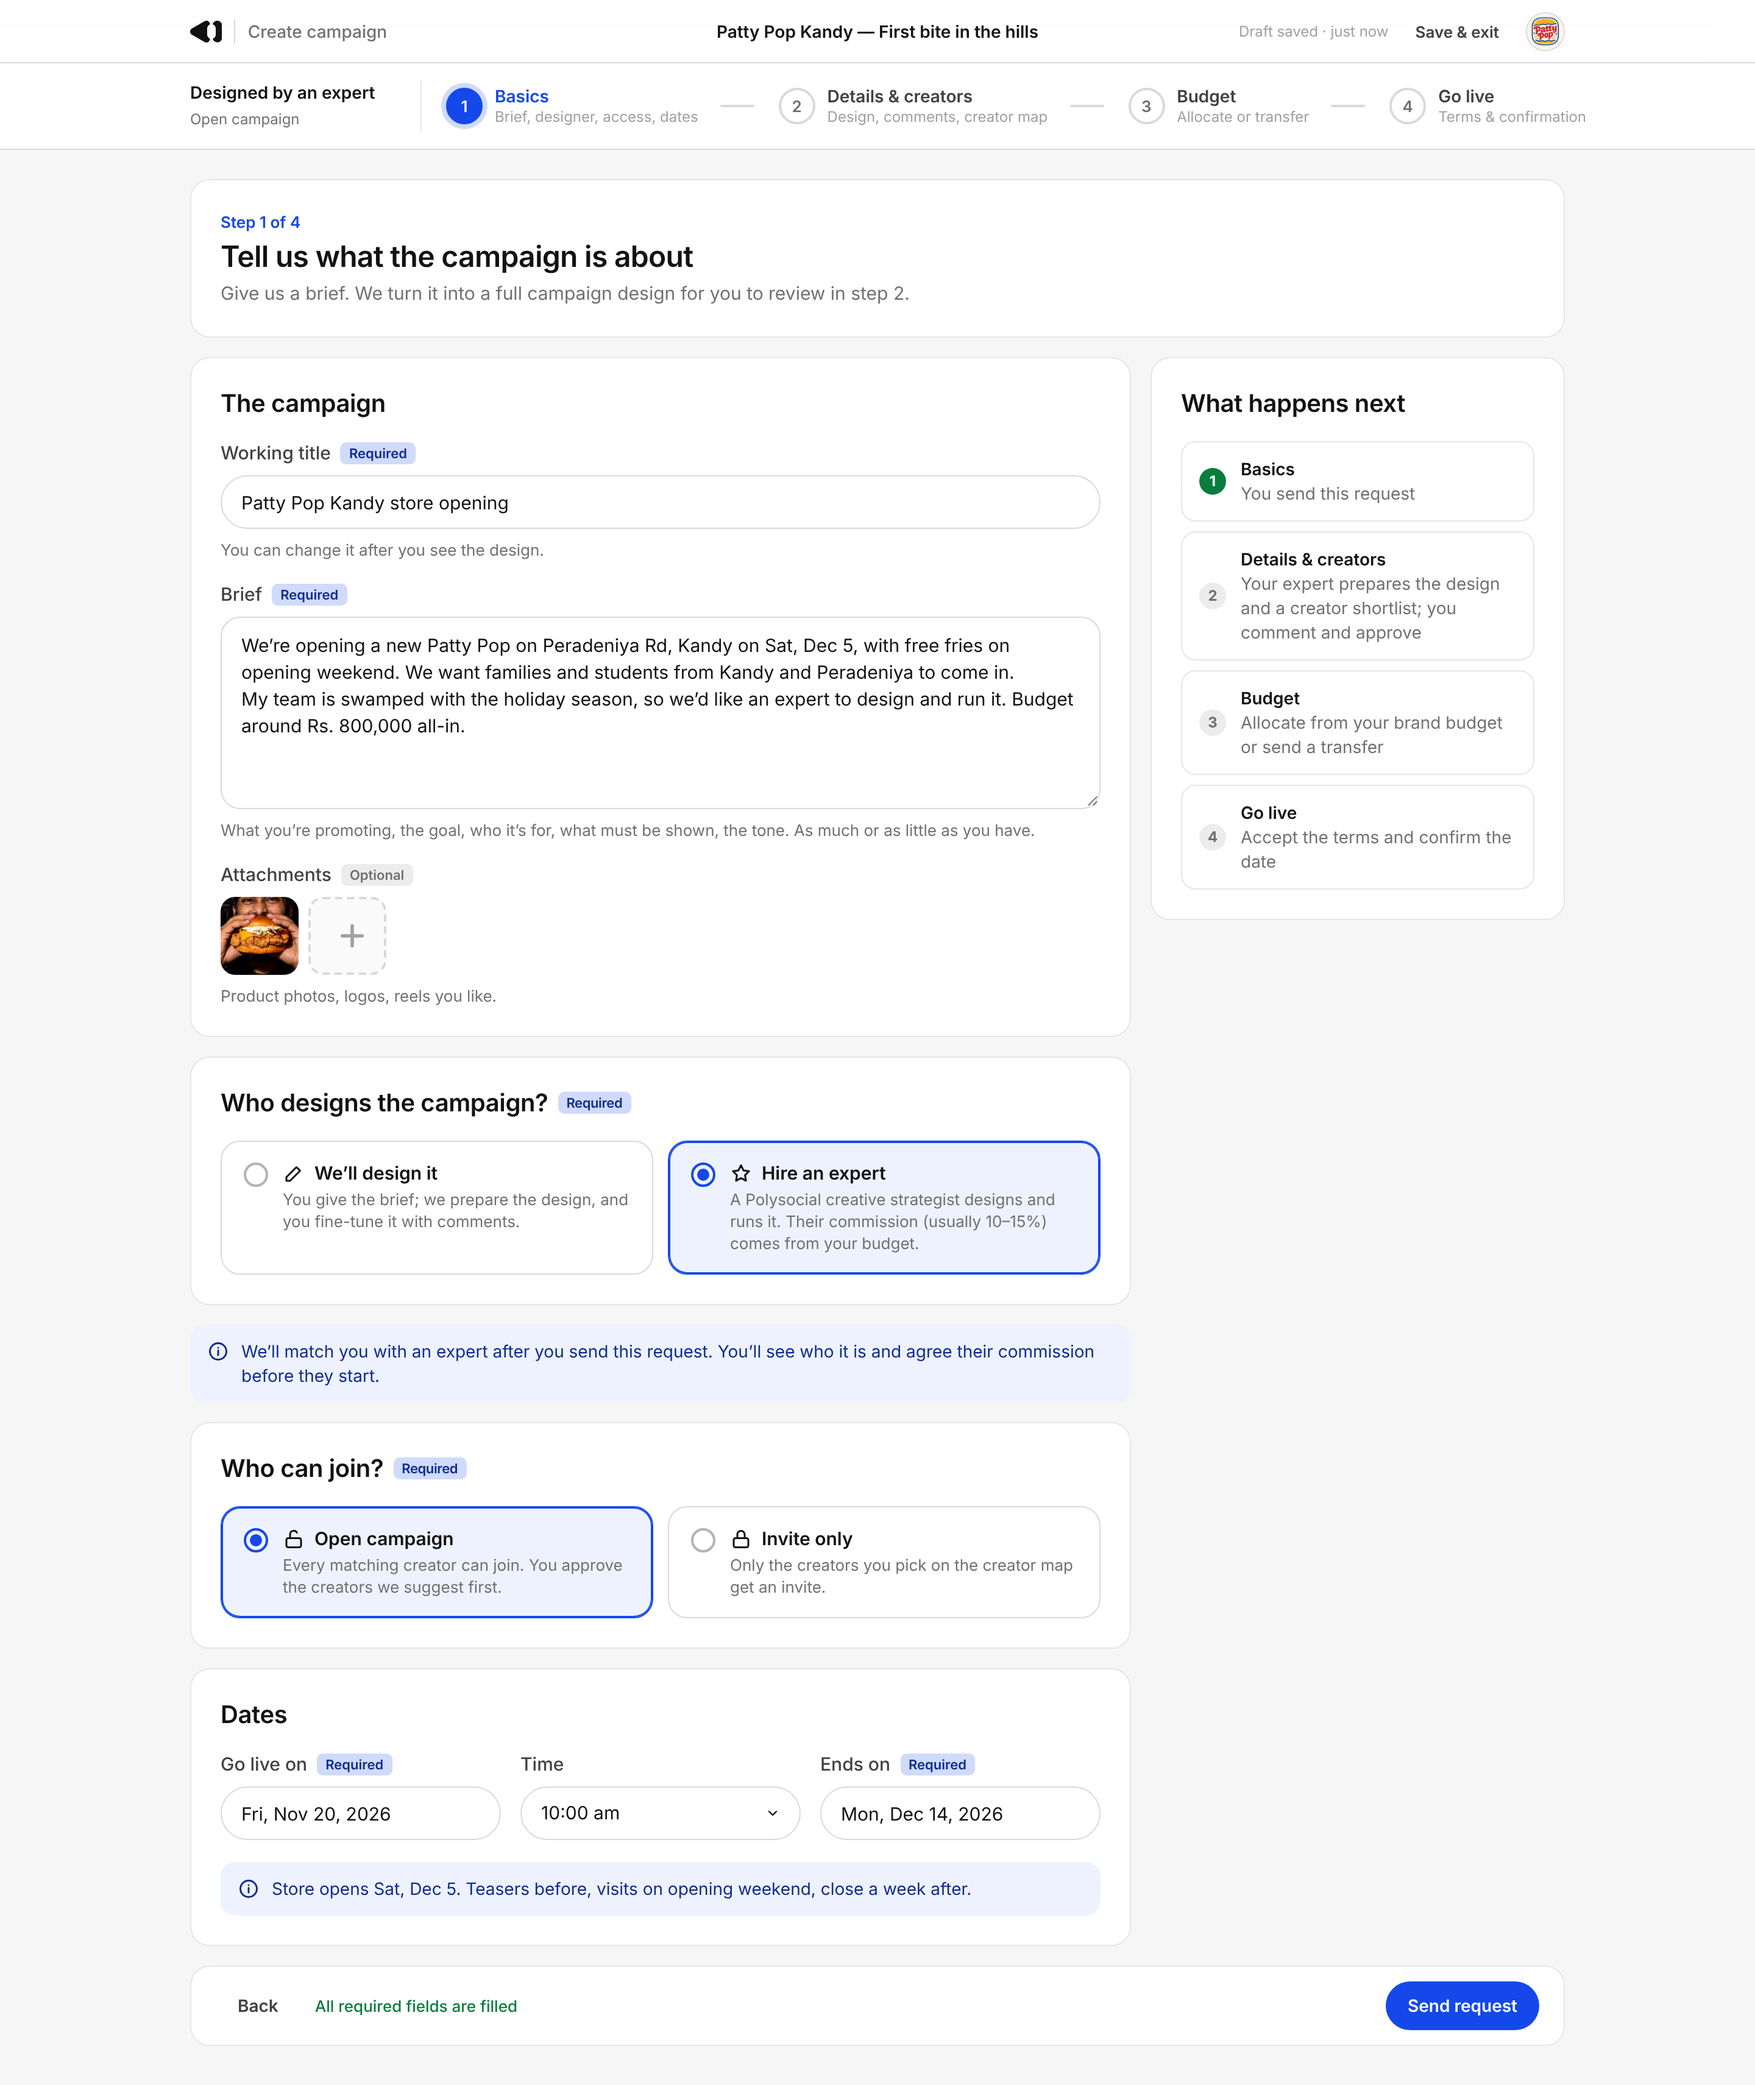
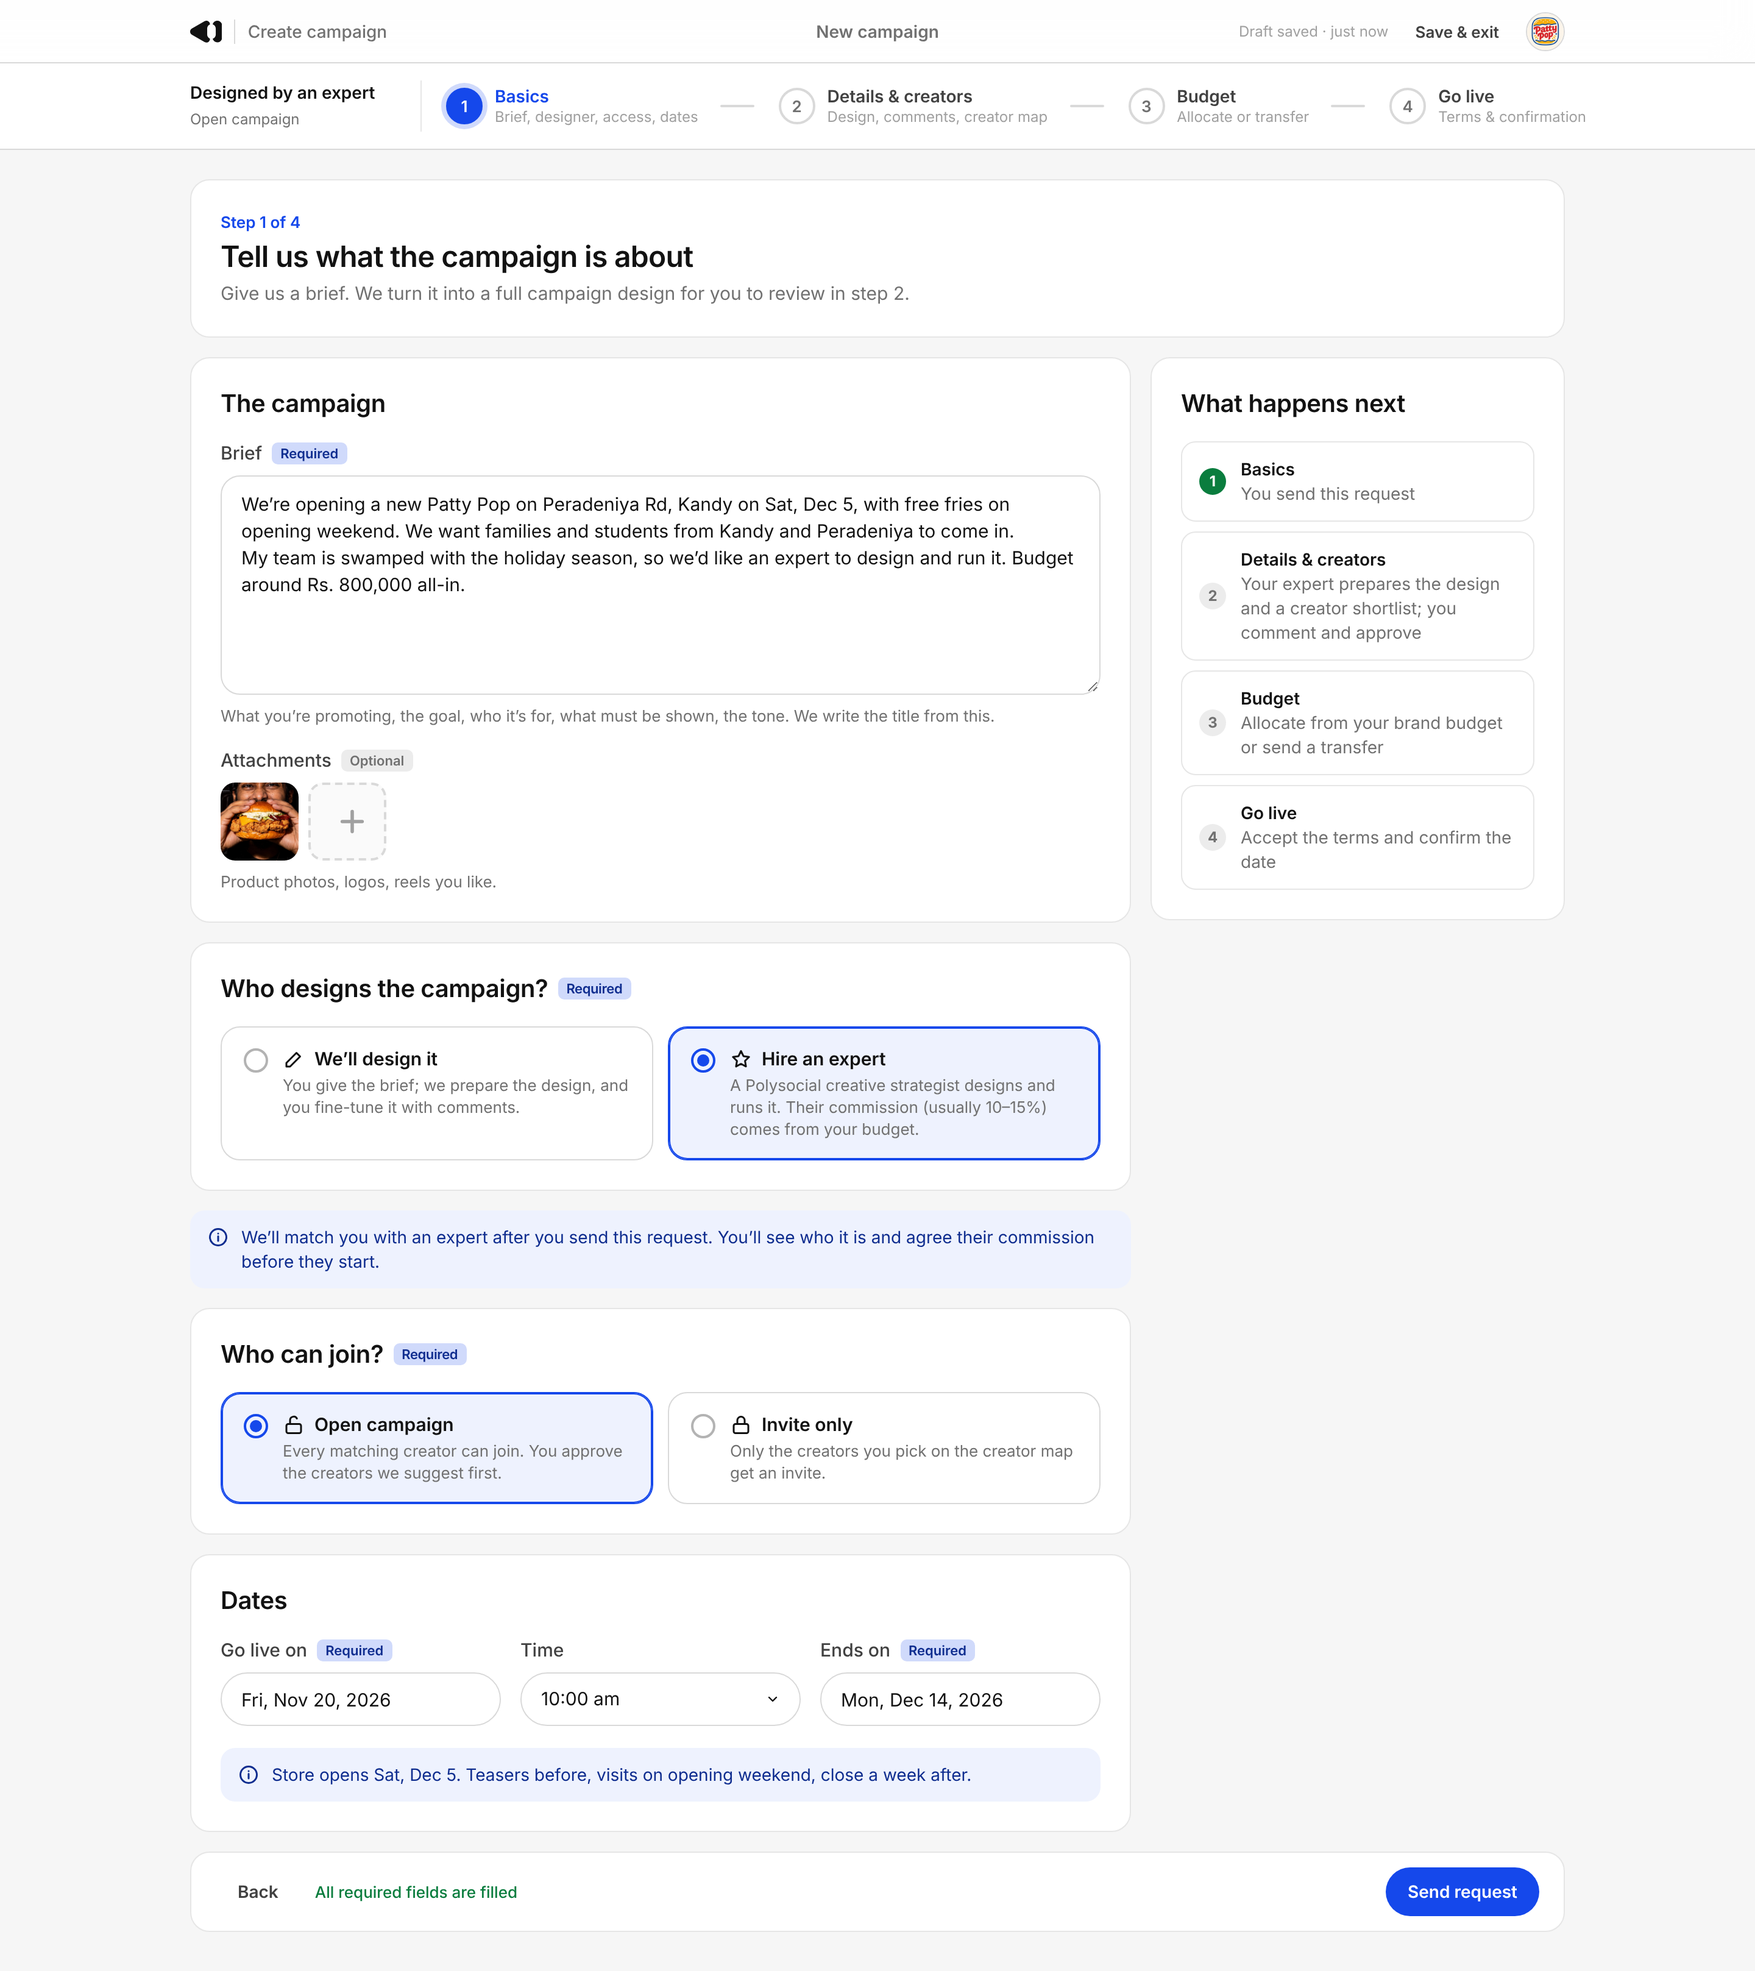
Drop the title from step 1; derive it from the brief in step 2
Step 1 asks only for the brief, attachments, who designs it, who can
join and the dates. The top bar reads New campaign until step 2, where
the title appears in the design marked From your brief.

Claude-Session: https://claude.ai/code/session_01TWFpSRdd2thovgoyFXphbs

diff --git a/campaign-screens/screens.js b/campaign-screens/screens.js
@@ -84,12 +84,12 @@ const T = {
       live: ['Mon', 'NOV', '16', 'Mon, Nov 16, 2026 · 9:00 am'], end: 'Sun, Dec 6, 2026', budget: 217647},
 };
 
-const topbar4 = (k) => `<header class="topbar"><a class="logo">${I.logo}<span>Create campaign</span></a><div class="top-mid">${k ? T[k].title : ''}</div>
+const topbar4 = (k, untitled) => `<header class="topbar"><a class="logo">${I.logo}<span>Create campaign</span></a><div class="top-mid">${untitled ? '<span style="color:var(--grey-600)">New campaign</span>' : k ? T[k].title : ''}</div>
   <div class="top-r">${k ? '<span class="saved">Draft saved · just now</span><span class="btn btn-ghost btn-sm">Save &amp; exit</span>' : ''}<img class="avatar" src="img/pattypop.png" alt=""></div></header>`;
 const stepbar = (k, cur) => `<div class="stepbar"><div class="in2"><div class="type"><b>${T[k].type}</b><span>${T[k].access}</span></div>
   <ol class="stepper4">${STEPS4.map(([t, s], i) => `<li class="${i < cur ? 'done' : i === cur ? 'cur' : ''}"><span class="c">${i < cur ? '✓' : i + 1}</span><span class="t"><b>${t}</b><span>${s}</span></span></li>`).join('')}</ol></div></div>`;
 const bar = (msg, btns, ok = true) => `<div class="actbar"><div class="in2"><span class="btn btn-ghost">Back</span><span class="miss${ok ? ' ok' : ''}">${msg}</span>${btns.map((b, i) => `<span class="btn ${i === btns.length - 1 ? 'btn-pri' : 'btn-sec'}">${b}</span>`).join('')}</div></div>`;
-const page = (k, cur, body, b) => `${topbar4(k)}${stepbar(k, cur)}<div class="wide nav-in">${body}${b || ''}</div>`;
+const page = (k, cur, body, b) => `${topbar4(k, cur === 0)}${stepbar(k, cur)}<div class="wide nav-in">${body}${b || ''}</div>`;
 const stephead = (n, title, sub, right) => `<section class="dcard"><div class="dhead row" style="margin-bottom:0"><div><div class="step-kick">Step ${n} of 4</div><h1>${title}</h1><p class="dsub">${sub}</p></div>${right || ''}</div></section>`;
 
 /* ---------- 00 · Entry: request a campaign from the brand page ---------- */
@@ -108,8 +108,7 @@ function step1(k, o) {
     stephead(1, 'Tell us what the campaign is about', 'Give us a brief. We turn it into a full campaign design for you to review in step 2.') +
     `<div class="cols"><div class="main">` +
     card('The campaign', '', `<div class="stack">
-      ${field('Working title', inp(o.title), {req: 1, hint: 'You can change it after you see the design.'})}
-      ${field('Brief', area(o.brief, 6), {req: 1, hint: 'What you’re promoting, the goal, who it’s for, what must be shown, the tone. As much or as little as you have.'})}
+      ${field('Brief', area(o.brief, 7), {req: 1, hint: 'What you’re promoting, the goal, who it’s for, what must be shown, the tone. We write the title from this.'})}
       ${field('Attachments', `<div style="display:flex;gap:8px;align-items:center">${o.files.map(f => `<img src="img/${f}" style="width:64px;height:64px;border-radius:12px;object-fit:cover">`).join('')}<span class="drop" style="width:64px;height:64px;padding:0;border-radius:12px"><span style="width:20px">${I.plus}</span></span></div>`, {opt: 1, hint: 'Product photos, logos, reels you like.'})}
     </div>`) +
     card('Who designs the campaign?', '', rcards([['We’ll design it', 'You give the brief; we prepare the design, and you fine-tune it with comments.', I.pen], ['Hire an expert', 'A Polysocial creative strategist designs and runs it. Their commission (usually 10–15%) comes from your budget.', I.star]], o.design), {req: 1}) +
@@ -121,13 +120,13 @@ function step1(k, o) {
     `</div></div>`,
     bar('All required fields are filled', ['Send request'], true));
 }
-SCREENS['a1-basics'] = () => step1('a', {title: 'Pop Crunch Chicken launch', design: 'We’ll design it', access: 'Open campaign', start: 'Mon, Oct 19, 2026', time: '9:00 am', end: 'Sun, Nov 8, 2026', files: ['ppBiteWide.jpg', 'ppBite.jpg'],
+SCREENS['a1-basics'] = () => step1('a', {design: 'We’ll design it', access: 'Open campaign', start: 'Mon, Oct 19, 2026', time: '9:00 am', end: 'Sun, Nov 8, 2026', files: ['ppBiteWide.jpg', 'ppBite.jpg'],
   brief: 'We’re launching the Pop Crunch Chicken burger. Goal: get people in their 20s in Colombo and Galle to try it in the first 3 weeks.\nHook idea: “POV: you found the crunchiest burger in Colombo”. Show the starving moment, ordering at Patty Pop, then a slow-mo crunchy first bite.\nMust show the burger up close and the Patty Pop wrapper. Fun and loud, not too polished. TikTok and Instagram Reels.',
   dateNote: '3 weeks. Creators can join as soon as it’s live and post until it ends.', next2: 'We prepare the design; you comment and approve the creators we suggest'});
-SCREENS['b1-basics'] = () => step1('b', {title: 'Patty Pop Kandy store opening', design: 'Hire an expert', access: 'Open campaign', start: 'Fri, Nov 20, 2026', time: '10:00 am', end: 'Mon, Dec 14, 2026', files: ['ppBite.jpg'],
+SCREENS['b1-basics'] = () => step1('b', {design: 'Hire an expert', access: 'Open campaign', start: 'Fri, Nov 20, 2026', time: '10:00 am', end: 'Mon, Dec 14, 2026', files: ['ppBite.jpg'],
   brief: 'We’re opening a new Patty Pop on Peradeniya Rd, Kandy on Sat, Dec 5, with free fries on opening weekend. We want families and students from Kandy and Peradeniya to come in.\nMy team is swamped with the holiday season, so we’d like an expert to design and run it. Budget around Rs. 800,000 all-in.',
   dateNote: 'Store opens Sat, Dec 5. Teasers before, visits on opening weekend, close a week after.', next2: 'Your expert prepares the design and a creator shortlist; you comment and approve'});
-SCREENS['c1-basics'] = () => step1('c', {title: 'Family Feast — Weekend dinner', design: 'We’ll design it', access: 'Invite only', start: 'Mon, Nov 16, 2026', time: '9:00 am', end: 'Sun, Dec 6, 2026', files: ['ppMeal.jpg'],
+SCREENS['c1-basics'] = () => step1('c', {design: 'We’ll design it', access: 'Invite only', start: 'Mon, Nov 16, 2026', time: '9:00 am', end: 'Sun, Dec 6, 2026', files: ['ppMeal.jpg'],
   brief: 'Family Feast box: 2 burgers, 2 kids’ meals, fries and 4 drinks for Rs. 4,990. We want families to make Patty Pop their weekend dinner plan.\nWe’d like momfluencers in Colombo, and we want to pick the creators ourselves. One Instagram reel each.',
   dateNote: '3 weeks, covering three weekends. Invites go out on the go-live date.', next2: 'We prepare the design; you comment and pick who to invite on the creator map'});
 
@@ -146,7 +145,7 @@ function step2design(k, o) {
     stephead(2, 'Fine-tune the campaign design', o.sub, segs(0)) +
     `<div class="cols"><section class="dcard doc"><div class="dcover">${t.cover.map(c => `<div style="background-image:url(img/${c})"></div>`).join('')}</div><div class="dbody">
       <div style="display:flex;justify-content:space-between;align-items:center;margin-bottom:8px"><span class="pill blue">${o.by} · Version ${o.v}</span><span style="font-size:13px;color:var(--grey-600)">Updated ${o.when}</span></div>
-      ${sec('Title', `<div class="dtitle">${t.title}</div>`, o.c.title)}
+      ${sec('Title <span class="pill blue" style="text-transform:none;letter-spacing:0">From your brief</span>', `<div class="dtitle">${t.title}</div>`, o.c.title)}
       ${sec('Requirement', `<p>${o.req}</p>`, o.c.req)}
       ${sec('Hook', `<p>${o.hook}</p>`, o.c.hook)}
       ${sec('Script', `<div class="beatsv">${o.beats.map(([a, b]) => `<div><em>${a}</em><span>${b}</span></div>`).join('')}</div>`, o.c.script)}
@@ -162,7 +161,7 @@ function step2design(k, o) {
       ${o.side || ''}</div></div>`,
     bar(o.msg, [`Request edits (${o.threads.filter(x => !x[2]).length})`, 'Approve design · next: creators'], true));
 }
-SCREENS['a2-design'] = () => step2design('a', {sub: 'We turned your brief into the campaign creators will see. Comment on any section to request an edit, then approve.', by: 'Prepared by Polysocial from your brief', v: 2, when: 'today 2:40 pm',
+SCREENS['a2-design'] = () => step2design('a', {sub: 'We turned your brief into the campaign creators will see, including its title. Comment on any section to request an edit, then approve.', by: 'Prepared by Polysocial from your brief', v: 2, when: 'today 2:40 pm',
   req: 'Show the moment you’re starving, walk into Patty Pop, and take the first big crunchy bite of the new Pop Crunch Chicken.', hook: '“POV: you found the crunchiest burger in Colombo”',
   beats: [['0–3s', 'Starving moment — late-night study, after cricket or after work'], ['3–8s', 'Walk into Patty Pop and order the Pop Crunch Chicken'], ['8–15s', 'First big bite, slow-mo crunch, burger to camera'], ['15s+', 'Happy reaction + “Pop Crunch Chicken, now at Patty Pop”']],
   deliv: '1 reel · 15–30s · vertical 9:16 · min 1080p · captions on', plats: ['TikTok', 'Instagram'], suited: ['All genders', '18–28 age', 'Colombo', 'Galle', 'Students', 'Young professionals', 'Selfie', 'Reels'],

diff --git a/campaign-screens/README.md b/campaign-screens/README.md
@@ -7,7 +7,7 @@ feature. Patty Pop is the brand; the three campaigns follow the three chats in `
 
 A stepper at the top shows the 4 steps on every screen:
 
-1. **Basics** — the brief (what the campaign is about), who designs it (*We’ll design it* or *Hire an expert*),
+1. **Basics** — the brief (what the campaign is about; no title, it is written from the brief in step 2), who designs it (*We’ll design it* or *Hire an expert*),
    who can join (*Open campaign* or *Invite only*) and the dates (go live on, ends on). Ends with *Send request*.
 2. **Details & creators** — two tabs:
    - *Campaign design*: the full design (title, photos, requirement, hook, script, deliverable, platforms, best suited
